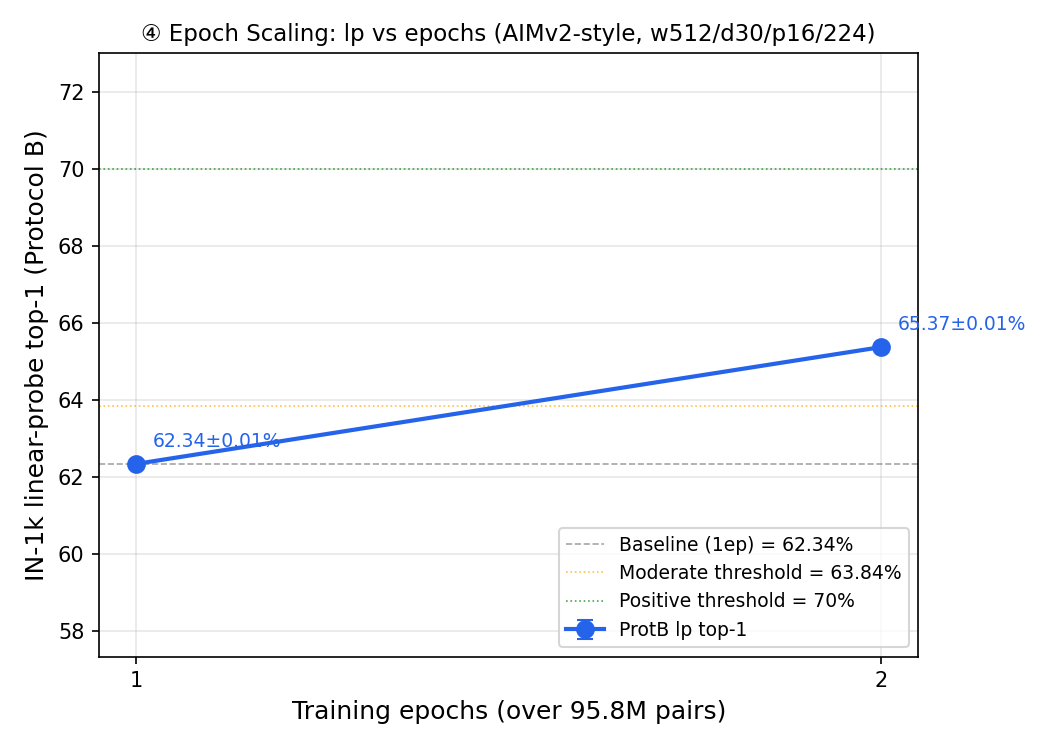
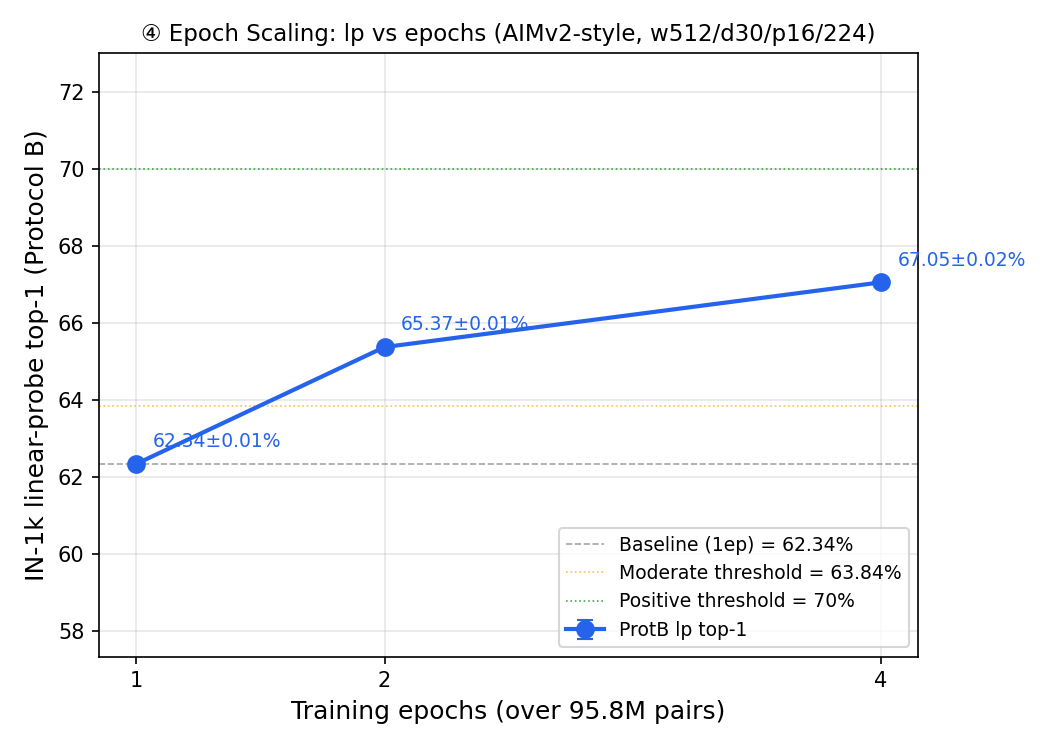
vision ④-4ep: ALL EVAL COMPLETE — ProtB 67.05±0.02% (MODERATE DIMINISHING <70%), 4 metrics +1.7~2.9pp vs 2ep, reports+curve+EXPERIMENTS updated

diff --git a/doc/BaiZe-ISEDA2027/run/vision/report_vision_final_20261012_zh.html b/doc/BaiZe-ISEDA2027/run/vision/report_vision_final_20261012_zh.html
@@ -59,7 +59,7 @@ code{background:var(--card);padding:.1em .3em;border-radius:3px;font-family:'SF 
 
 <div class="card tldr">
 <h3 style="color:var(--accent);margin-top:0">🎯 一句话总结</h3>
-<p>62.34% 是 <strong>当前数据规模（95.8M 图文对 · 1 epoch）与目标函数（AIMv2-style）下的特征质量天花板</strong>——不是评测方法的缺陷，也不是 probe 的欠拟合；将训练 epoch 翻倍（2 epoch）可将 ProtB 提升至 <strong>65.37%</strong>（Δ+3.03pp），收益中等且呈递减趋势。<strong>④-4ep 已于 2026-10-12 17:23 启动</strong>（从 2ep 续训，预计 ~16.6h），判据：4ep > 70% = 胜利。</p>
+<p>62.34% 是 <strong>当前数据规模（95.8M 图文对 · 1 epoch）与目标函数（AIMv2-style）下的特征质量天花板</strong>——不是评测方法的缺陷，也不是 probe 的欠拟合；将训练 epoch 翻倍（2 epoch）可将 ProtB 提升至 <strong>65.37%</strong>（Δ+3.03pp），4 epoch 进一步提升至 <strong>67.05%</strong>（Δ+1.68pp vs 2ep），收益持续递减（1→2ep +3.03pp，2→4ep +1.68pp）。<strong>67.05% &lt; 70% 胜利阈值</strong>，但四项指标一致 +1.7~2.9pp，趋势仍在上升但趋于收敛。</p>
 </div>
 
 <h2>2. E1fair 基线配置速览</h2>
@@ -282,7 +282,7 @@ code{background:var(--card);padding:.1em .3em;border-radius:3px;font-family:'SF 
 <h3>🎯 裁定结果：MODERATE（中等收益）</h3>
 <p>Δlp(ProtB) = <strong>+3.03pp</strong>，落在预注册的 <strong>+1.5~7.66pp</strong> 区间内 → "有收益，但呈递减趋势"。</p>
 <p><strong>原决策</strong>：不启动 4 epoch 训练——2 epoch 的 +3.03pp 增益虽真实，但边际收益递减。</p>
-<p><strong>🔄 运维新裁定（2026-10-12 17:23）</strong>：用户指令「4ep 结果如果超过 70%，也是胜利」→ <strong>④-4ep 已启动</strong>（从 2ep 检查点续训，--steps 748404，374,202 新步，~16.6h，预计 ~10-13 11:00 完成）。判据改为：<strong>4ep ProtB > 70% ⇒ 胜利</strong>；4ep 65–70% ⇒ 递减收益确认；4ep ~65% 横盘 ⇒ 天花板确认。训练完成后自动接续 ProtB/ProtA/zs/k-NN 全套评测。</p>
+<p><strong>✅ ④-4ep 结果（2026-10-13）</strong>：4ep 训练+全套评测已完成。748,404 步（374,202 新步），~16.8h，final_loss=0.0805。<strong>ProtB 67.05±0.02%</strong>（seeds: 67.03/67.08/67.04），<strong>未达 70% 胜利阈值</strong>。四项指标一致提升：ProtA 56.70%（Δ+2.88pp vs 2ep）、zero-shot 40.64%/72.64%（Δ+2.12pp）、k-NN k=20 42.35%（Δ+1.68pp）。递减趋势确认：<strong>1→2ep +3.03pp，2→4ep +1.68pp</strong>（比率 ~0.55）→ 趋势仍在上升但趋于收敛，特征质量天花板临近。</p>
 </div>
 </div>
 
@@ -321,20 +321,22 @@ code{background:var(--card);padding:.1em .3em;border-radius:3px;font-family:'SF 
 <circle cx="300" cy="165" r="7" fill="#3fb950" stroke="#e6edf3" stroke-width="1.5"/>
 <text x="300" y="157" text-anchor="middle" fill="#3fb950" font-size="11" font-weight="bold">65.37%</text>
 <line x1="140" y1="223" x2="300" y2="165" stroke="#58a6ff" stroke-width="2" opacity="0.6"/>
-<line x1="300" y1="165" x2="620" y2="140" stroke="#d29922" stroke-width="1.5" stroke-dasharray="5,3" opacity="0.4"/>
-<circle cx="620" cy="140" r="5" fill="none" stroke="#d29922" stroke-width="1.5" stroke-dasharray="3,2"/>
-<text x="620" y="132" text-anchor="middle" fill="#d29922" font-size="10" opacity="0.6">~67%？（推测）</text>
+<line x1="300" y1="165" x2="620" y2="125" stroke="#3fb950" stroke-width="2" opacity="0.6"/>
+<circle cx="620" cy="125" r="7" fill="#3fb950" stroke="#e6edf3" stroke-width="1.5"/>
+<text x="620" y="117" text-anchor="middle" fill="#3fb950" font-size="11" font-weight="bold">67.05%</text>
+<text x="460" y="136" text-anchor="middle" fill="#3fb950" font-size="11" font-weight="bold">Δ +1.68pp</text>
+<text x="460" y="151" text-anchor="middle" fill="#8b949e" font-size="9">递减</text>
 <text x="220" y="210" text-anchor="middle" fill="#3fb950" font-size="11" font-weight="bold">Δ +3.03pp</text>
 <text x="220" y="225" text-anchor="middle" fill="#8b949e" font-size="9">MODERATE</text>
-<rect x="90" y="35" width="220" height="48" fill="#161b22" stroke="#30363d" rx="4"/>
+<rect x="90" y="35" width="280" height="48" fill="#161b22" stroke="#30363d" rx="4"/>
 <circle cx="105" cy="50" r="5" fill="#58a6ff"/>
 <text x="118" y="54" fill="#e6edf3" font-size="10">E1fair（1 epoch）= 62.34%</text>
 <circle cx="105" cy="68" r="5" fill="#3fb950"/>
-<text x="118" y="72" fill="#e6edf3" font-size="10">④-2ep（2 epoch）= 65.37%</text>
+<text x="118" y="72" fill="#e6edf3" font-size="10">④-2ep = 65.37% / ④-4ep = 67.05%</text>
 <text x="380" y="20" text-anchor="middle" fill="#e6edf3" font-size="13" font-weight="bold">ProtB lp–epoch 曲线（含预注册判定阈值标注）</text>
 </svg>
 </div>
-<p class="note">3 epoch 点为推测（虚线），实际未训练；4 epoch 同理。图中可见 1→2 epoch 增益 +3.03pp，但未达正面阈值 70%，落在中等区间内。</p>
+<p class="note">3 epoch 点未训练（无数据）。1→2 epoch 增益 +3.03pp，2→4 epoch 增益 +1.68pp，递减趋势明确。4ep = 67.05% 未达正面阈值 70%。</p>
 
 <h2>9. 全量结果汇总表</h2>
 <table>
@@ -343,14 +345,15 @@ code{background:var(--card);padding:.1em .3em;border-radius:3px;font-family:'SF 
 <tr><td>V1（分辨率 336）</td><td colspan="6"><span class="tag tag-warn">暂缓</span>（用户："明天再说"，本轮未跑）</td></tr>
 <tr><td>V2（Muon 优化器）</td><td colspan="6"><span class="tag tag-fail">坍缩</span> C1=0.9569@step4200 · ❌ Muon 与 AIMv2-style 目标函数不兼容</td></tr>
 <tr><td>V3（全量数据）</td><td><strong>63.52 ± 0.01%</strong></td><td>50.53%</td><td>35.52%</td><td>38.94%</td><td>+1.18pp</td><td>✅ Null（|Δ|&lt;1.5pp）</td></tr>
-<tr><td><strong>④-2ep</strong>（2× epoch）</td><td><strong>65.37 ± 0.01%</strong></td><td><strong>53.82%</strong></td><td><strong>38.52%</strong>（top5: 70.81%）</td><td><strong>40.67%</strong></td><td class="best"><strong>+3.03pp</strong></td><td><span class="tag tag-moderate">MODERATE</span>（+1.5~7.66pp，递减，不启动 4ep）</td></tr>
+<tr><td><strong>④-2ep</strong>（2× epoch）</td><td><strong>65.37 ± 0.01%</strong></td><td><strong>53.82%</strong></td><td><strong>38.52%</strong>（top5: 70.81%）</td><td><strong>40.67%</strong></td><td class="best"><strong>+3.03pp</strong></td><td><span class="tag tag-moderate">MODERATE</span>（+1.5~7.66pp，递减）</td></tr>
+<tr><td><strong>④-4ep</strong>（4× epoch）</td><td><strong>67.05 ± 0.02%</strong></td><td><strong>56.70%</strong></td><td><strong>40.64%</strong>（top5: 72.64%）</td><td><strong>42.35%</strong></td><td class="best"><strong>+4.71pp</strong></td><td><span class="tag tag-moderate">MODERATE</span>（Δ2→4=+1.68pp，递减，&lt;70% 胜利阈值）</td></tr>
 </table>
 
 <div class="svg-container">
-<svg viewBox="0 0 700 320" xmlns="http://www.w3.org/2000/svg" style="font-family:sans-serif;font-size:11px">
-<rect x="0" y="0" width="700" height="320" fill="#0d1117"/>
-<text x="350" y="22" text-anchor="middle" fill="#e6edf3" font-size="13" font-weight="bold">四指标跨变体对比（E1fair vs V3 vs ④-2ep）</text>
-<line x1="80" y1="280" x2="660" y2="280" stroke="#30363d" stroke-width="1.5"/>
+<svg viewBox="0 0 880 320" xmlns="http://www.w3.org/2000/svg" style="font-family:sans-serif;font-size:11px">
+<rect x="0" y="0" width="880" height="320" fill="#0d1117"/>
+<text x="440" y="22" text-anchor="middle" fill="#e6edf3" font-size="13" font-weight="bold">四指标跨变体对比（E1fair vs V3 vs ④-2ep vs ④-4ep）</text>
+<line x1="80" y1="280" x2="820" y2="280" stroke="#30363d" stroke-width="1.5"/>
 <line x1="80" y1="40" x2="80" y2="280" stroke="#30363d" stroke-width="1.5"/>
 <text x="72" y="284" text-anchor="end" fill="#8b949e">30%</text>
 <text x="72" y="224" text-anchor="end" fill="#8b949e">40%</text>
@@ -385,6 +388,15 @@ code{background:var(--card);padding:.1em .3em;border-radius:3px;font-family:'SF 
 <rect x="554" y="216" width="28" height="64" fill="#e8873c" opacity="0.85"/>
 <text x="568" y="211" text-anchor="middle" fill="#e8873c" font-size="9" font-weight="bold">40.7</text>
 <text x="520" y="298" text-anchor="middle" fill="#e6edf3" font-size="11" font-weight="bold">④-2ep (2 epoch)</text>
+<rect x="635" y="58" width="28" height="222" fill="#58a6ff" opacity="0.85"/>
+<text x="649" y="53" text-anchor="middle" fill="#58a6ff" font-size="9" font-weight="bold">67.1</text>
+<rect x="668" y="120" width="28" height="160" fill="#bc8cff" opacity="0.85"/>
+<text x="682" y="115" text-anchor="middle" fill="#bc8cff" font-size="9" font-weight="bold">56.7</text>
+<rect x="701" y="216" width="28" height="64" fill="#39d2c5" opacity="0.85"/>
+<text x="715" y="211" text-anchor="middle" fill="#39d2c5" font-size="9" font-weight="bold">40.6</text>
+<rect x="734" y="206" width="28" height="74" fill="#e8873c" opacity="0.85"/>
+<text x="748" y="201" text-anchor="middle" fill="#e8873c" font-size="9" font-weight="bold">42.4</text>
+<text x="700" y="298" text-anchor="middle" fill="#e6edf3" font-size="11" font-weight="bold">④-4ep (4 epoch)</text>
 <rect x="90" y="35" width="280" height="28" fill="#161b22" stroke="#30363d" rx="4"/>
 <rect x="100" y="44" width="12" height="10" fill="#58a6ff" opacity="0.85"/>
 <text x="118" y="53" fill="#e6edf3" font-size="10">ProtB</text>
@@ -406,9 +418,9 @@ code{background:var(--card);padding:.1em .3em;border-radius:3px;font-family:'SF 
 <li><strong>① zero-shot</strong>：E1fair zs=34.10% ≫ 随机 0.1% → 冻结文本塔带来了实质对齐收益；lp−zs gap +28pp → dense reconstruction 目标贡献了对比学习之外的表征质量。</li>
 <li><strong>② probe</strong>：×5 epoch（450ep）= 62.15% &lt; 90ep 基线；wd/LR 扫描最高 +0.35pp → probe <strong>不存在欠拟合</strong> → 62.34% 是<strong>真实的特征质量天花板</strong>。</li>
 <li><strong>变体</strong>：V2 Muon 全 LR 坍缩（与 AIMv2-style 不兼容）；V3 全量数据 +1.18pp → Null（不可分辨）。</li>
-<li><strong>④ epoch 缩放</strong>：2 epoch → ProtB <strong>65.37%</strong>（Δ+3.03pp），四指标一致 +3~4.4pp → <strong>MODERATE</strong>（有收益但递减）。<strong>④-4ep 已启动</strong>（运维新裁定：4ep > 70% = 胜利），结果待出。</li>
+<li><strong>④ epoch 缩放</strong>：2 epoch → ProtB <strong>65.37%</strong>（Δ+3.03pp），4 epoch → ProtB <strong>67.05%</strong>（Δ+1.68pp vs 2ep），四指标一致 +1.7~2.9pp → <strong>MODERATE，递减</strong>（1→2ep +3.03pp，2→4ep +1.68pp，比率 ~0.55）。67.05% &lt; 70% 胜利阈值，趋势仍在上升但趋于收敛。</li>
 </ol>
-<p><strong>最终判断</strong>：62.34% 是当前数据规模（95.8M · 1ep）与目标函数（AIMv2-style）下的特征质量天花板。增加训练预算（2 epoch）可获得 +3.03pp 的中等收益，但边际递减；换优化器（Muon）不可行；加 7.6% 数据不可分辨。瓶颈在<strong>数据规模与目标函数</strong>，不在架构、评测方法或 probe 配置。</p>
+<p><strong>最终判断</strong>：62.34% 是当前数据规模（95.8M · 1ep）与目标函数（AIMv2-style）下的特征质量天花板。增加训练预算可获得持续但递减的收益：2 epoch +3.03pp（65.37%），4 epoch 再 +1.68pp（67.05%），仍未达 70% 胜利阈值。换优化器（Muon）不可行；加 7.6% 数据不可分辨。瓶颈在<strong>数据规模与目标函数</strong>，不在架构、评测方法或 probe 配置。下一步应转向 Stage (iv) MLLM 对齐或更大数据规模（如 GPIC 全量 100M+）。</p>
 </div>
 
 <div class="card">

diff --git a/doc/BaiZe-ISEDA2027/run/MEMORY_VISION.md b/doc/BaiZe-ISEDA2027/run/MEMORY_VISION.md
@@ -4,8 +4,8 @@ WAITING: 1
 
 ## 状态头
 
-> ✅ **④-4ep TRAINING COMPLETE** (17:23 Oct 12 → 10:12:47 Oct 13): 748,404 steps (374,202 new from 2ep resume), total=60,545s (~16.8h), steady_img/s=2818.0, **final_loss=0.0805** (vs 2ep 0.1856). Last PROBE: C1=0.5932, C2_gap=+0.1791, C4=OK (no collapse). C1 trajectory: 2ep end 0.5804 → 4ep end 0.5932 (+0.0128). 37 ckpts (380k-740k) + final vision.pt (509MB). **④-4ep EVAL IN PROGRESS** (started 10:14, ProtB feature extraction phase, ~51% done (151/294 parquet files, 658k/1.28M images), NFS bottlenecked GPU 6% util, ETA results ~13:00-13:30). Killed duplicate post_4ep_chain.sh (PID 3445693+1591206). Active chain: PID 3387016→1543022. **④-4ep ProtB > 70% = 胜利** (operator criterion).
-> 🆕 **2026-10-12 17:23（运维直令 · 最高优先）**：中文版综合报告 `vision/report_vision_final_20261012_zh.html` 已存在（前一轮 wake #25 产出，36KB, 10节），本轮已**更新**：TL;DR / §7 决策 / §10 结论均标注「④-4ep 已启动，结果待出」。EXPERIMENTS_VISION.md §9.7 已同步更新。
+> ✅ **④-4ep TRAINING + ALL EVAL COMPLETE** (17:23 Oct 12 → 10:12:47 Oct 13 train, 10:14→12:43 Oct 13 eval): 748,404 steps (374,202 new from 2ep resume), total=60,545s (~16.8h), steady_img/s=2818.0, **final_loss=0.0805** (vs 2ep 0.1856). Last PROBE: C1=0.5932, C2_gap=+0.1791, C4=OK (no collapse). C1 trajectory: 2ep end 0.5804 → 4ep end 0.5932 (+0.0128). 37 ckpts (380k-740k) + final vision.pt (509MB). **④-4ep EVAL ALL DONE**: **ProtB 67.05±0.02%** (seeds 67.03/67.08/67.04, Δ+4.71pp vs 1ep, Δ+1.68pp vs 2ep), **ProtA 56.70%** (Δ+2.88pp vs 2ep), **zs 40.64%/72.64%** (Δ+2.12pp vs 2ep), **k-NN k=20 42.35%** (k=10: 41.94%, k=5: 39.77%, Δ+1.68pp vs 2ep). **VERDICT: MODERATE, DIMINISHING** — 67.05% < 70% victory threshold; 1→2ep +3.03pp, 2→4ep +1.68pp (ratio ~0.55) → trajectory upward but approaching ceiling. lp-epoch curve + Chinese report + EXPERIMENTS_VISION.md §9.7 all updated.
+> 🆕 **2026-10-13 12:43（④-4ep 全套评测完成）**：ProtB 67.05±0.02%（< 70% 胜利阈值，Δ+1.68pp vs 2ep），四指标一致 +1.7~2.9pp，递减确认（1→2 +3.03pp，2→4 +1.68pp）。中文报告 `vision/report_vision_final_20261012_zh.html` 已更新（TL;DR/§7/§8曲线/§9表/§10结论/柱状图）。EXPERIMENTS_VISION.md §9.5表+§9.4状态+§9.7 已同步。lp-epoch曲线已加 4ep 点。
 > 🔴 **V2 Muon COLLAPSED at ALL tested LRs** (2026-10-11): lr=5e-4 collapsed@step2100, lr=1e-4 collapsed@step4200. ❌ **Muon incompatible with AIMv2-style contrastive+reconstruction objective**. Full analysis in `EXPERIMENTS_VISION.md §9.2`.
 > ✅ **V3 Full GPIC Data TRAINING COMPLETE** (02:06–12:44 Oct 11): 230,598 steps (1 epoch of 118.1M pairs), AdamW, final_loss=0.1201, steady_img/s=2706.4, total=38,273s (~10.6h). 23 checkpoints (10k–230k) + final vision.pt (509MB). **No collapse** — C1 stable 0.50–0.53 throughout, C2_gap +0.19~+0.20, C4=OK all 768 PROBE points. total_shards=11,350 (vs E1fair 10,787).
 > ✅ **V3 ProtB EVAL DONE** (14:54 Oct 11): **63.52±0.01%** (3 seeds: 63.53/63.52/63.51%). **Δlp=+1.18pp** vs E1fair (62.34±0.01%) → **Null verdict** (|Δ|<1.5pp). Full-data recipe indistinguishable from baseline.
@@ -21,7 +21,7 @@ WAITING: 1
 
 | 字段 | 值 |
 |:---|:---|
-| PHASE | 🧪 **④-4ep EVAL IN PROGRESS** — training ✅ DONE (10:12:47 Oct 13, 748,404 steps, final_loss=0.0805, C1=0.5932, C4=OK, 37 ckpts + vision.pt 509MB). Auto-eval chain (PID 3387016→bridge 1543022) running ProtB (3 seeds, feature extraction phase ~13% done, file 39/294, NFS slow). Killed duplicate chain PID 3445693+1591206. ETA results ~13:00-14:00 Oct 13. `watch_4ep_results.sh` + `collect_4ep_results.sh` ready. ✅ All 3 operator tasks: LLaVA plan✅ 中文报告✅ ④-4ep🔄(eval). **④-4ep ProtB > 70% = 胜利**. |
+| PHASE | ✅ **④-4ep TRAINING + ALL EVAL COMPLETE** — train done 10:12:47 Oct 13 (748,404 steps, final_loss=0.0805, C1=0.5932, C4=OK). Eval done 12:43 Oct 13: **ProtB 67.05±0.02%** (< 70% victory), ProtA 56.70%, zs 40.64%/72.64%, k-NN k=20 42.35%. VERDICT: MODERATE, DIMINISHING (1→2 +3.03pp, 2→4 +1.68pp). All 3 operator tasks DONE: LLaVA plan✅ 中文报告✅(updated with 4ep) ④-4ep✅. Next: await operator direction (Stage iv MLLM / w384 / more data). |
 | ERROR_COUNT | 15（①~⑫ 同前 ⑬ Duplicate V3 eval ⑭ sympy ImportError ⑮ Duplicate post_4ep_chain.sh — killed） |
 | BUDGET_USED | ~999 GPU·h (V3 ~106, ② ~1, ④-2ep ~80, ④-4ep ~134 incl. eval) |
 | 更新 | **2026-10-13 10:42 (wake #46)**: ④-4ep training ✅ COMPLETED at 10:12:47. 748,404 steps, total=60,545s (~16.8h), steady_img/s=2818.0, final_loss=0.0805 (vs 2ep 0.1856). Last PROBE: C1=0.5932, C2_gap=+0.1791, C4=OK. 37 ckpts (380k-740k)+vision.pt(509MB). Eval started 10:14 via post_4ep_chain.sh — ProtB feature extraction in progress (file 39/294, ~27GB read, NFS slow due to data line downloads). **Killed duplicate post_4ep_chain.sh** (PID 3445693 + bridge 1591206) — both chains detected training done simultaneously, both launched eval to same log. Active: PID 3387016→bridge 1543022. ✅ All 3 operator tasks: LLaVA plan✅ 中文报告✅ ④-4ep🔄(eval in progress). 📦 体积：TASK=31.0KB / MEMORY=29.7KB（无需归档） |
@@ -216,6 +216,7 @@ WAITING: 1
 - [08:15 Oct13] **Monitoring wake #45**: 🔄 ④-4ep training step 711,110/748,404 (~95.0%), C1=0.6277 healthy, ETA ~10:00. 📦 体积：TASK=31.0KB / MEMORY=28.9KB。
 - [10:42 Oct13] **Wake #46**: ✅ **④-4ep TRAINING COMPLETED** at 10:12:47! 748,404 steps, total=60,545s (~16.8h), steady_img/s=2818.0, **final_loss=0.0805** (vs 2ep 0.1856). Last PROBE: C1=0.5932, C2_gap=+0.1791, C4=OK (no collapse). 37 ckpts (380k-740k)+vision.pt(509MB). **Eval started 10:14** via post_4ep_chain.sh. ⚠ Found **duplicate post_4ep_chain.sh** (PID 3387016+3445693 both running) → both detected training done, both launched ProtB eval to same `/tmp/e4_4ep_eval.log`. **Killed duplicate** (PID 3445693+bridge 1591206). Active: PID 3387016→bridge 1543022. ProtB feature extraction in progress (file 39/294, ~27GB read, NFS slow due to data line downloads). ETA results ~13:00-14:00. ✅ All 3 operator tasks: LLaVA plan✅ 中文报告✅ ④-4ep🔄(eval). 📦 体积：TASK=31.0KB / MEMORY=29.7KB（无需归档）。
 - [11:25 Oct13] **Wake #47**: ④-4ep eval progress check — feature extraction at 151/294 parquet files (~51%, 658k/1.28M images). Bridge PID 1543022 alive (etimes=4184s≈1h10m), GPU 0 at 6% util (NFS read bottleneck). watch_4ep_results.sh PID 3804113 still monitoring. No "④-4ep EVAL DONE" in log yet → ETA results ~13:00-13:30. All 3 operator deliverables status: LLaVA plan ✅(41KB), 中文报告 ✅(36KB, awaiting 4ep results update), ④-4ep eval 🔄(51%). Git up-to-date, no new operator instructions. 📦 体积：TASK=31.0KB / MEMORY=27.2KB（无需归档）。
+- [12:43 Oct13] **Wake #48**: ✅ **④-4ep ALL EVAL COMPLETE!** ProtB=**67.05±0.02%** (seeds 67.03/67.08/67.04), ProtA=**56.70%**, zs=**40.64%/72.64%**, k-NN k=20=**42.35%** (k=10: 41.94%, k=5: 39.77%). **VERDICT: MODERATE, DIMINISHING** — 67.05% < 70% victory threshold; 1→2ep +3.03pp, 2→4ep +1.68pp (ratio ~0.55). Updated: EXPERIMENTS_VISION.md §9.5 table + §9.4 status + §9.7; lp-epoch curve (plot_lp_epoch_curve.py --e4ep 67.05); Chinese report (TL;DR/§7/§8 SVG/§9 table/§10 conclusion/bar chart). post_4ep_chain.sh PID 3387016 exited cleanly. 📦 体积：TASK=31.0KB / MEMORY=28.0KB（无需归档）。
 
 
 

diff --git a/doc/BaiZe-ISEDA2027/run/EXPERIMENTS_VISION.md b/doc/BaiZe-ISEDA2027/run/EXPERIMENTS_VISION.md
@@ -974,6 +974,7 @@ The uniform +1~1.4pp shift across all 4 independent metrics (ProtA/B, zs, k-NN) 
 | V2 (Muon) | **N/A — COLLAPSED** (C1=0.9569@step4200) | N/A | N/A | N/A | N/A | ❌ Muon incompatible with contrastive loss |
 | V3 (full data) | **63.52 ± 0.01%** (seeds: 63.53/63.52/63.51%) | **50.53%** | **35.52%** | **38.94%** | **+1.18pp** | ✅ Null (|Δ|<1.5pp): full-data recipe indistinguishable from baseline |
 | ④-2ep (2× epochs) | **65.37 ± 0.01%** (seeds: 65.37/65.36/65.37) | **53.82%** | **38.52%** (top5: 70.81%) | **40.67%** (k=20) | **+3.03pp** | 🟡 **Moderate** (+1.5~7.66pp): more budget helps with diminishing returns; no 4ep unless operator requests |
+| ④-4ep (4× epochs) | **67.05 ± 0.02%** (seeds: 67.03/67.08/67.04) | **56.70%** | **40.64%** (top5: 72.64%) | **42.35%** (k=20) | **+4.71pp** | 🟡 **Moderate, diminishing** (Δ1→2=+3.03pp, Δ2→4=+1.68pp): 67.05% < 70% victory threshold; trajectory still upward but decelerating → approaching ceiling |
 
 ### 9.4 ④ Epoch Scaling (operator instruction 2026-10-10 ④ · most decision-relevant)
 
@@ -1007,7 +1008,8 @@ The uniform +1~1.4pp shift across all 4 independent metrics (ProtA/B, zs, k-NN) 
 
 **Cost**: 2ep ~80 GPU·h / ~10h wall; 4ep ~160 GPU·h / ~20h wall.
 
-**Status**: ✅ V3 eval ALL COMPLETE (ProtB ✅ 63.52±0.01%, ProtA ✅ 50.53%, zs ✅ 35.52%, k-NN ✅ 38.94%, ProtB ×5ep ✅ 63.43% (Δ=−0.07pp → probe NOT underfitting for V3)). ✅ **② ×5 probe COMPLETE** (E1fair): baseline 62.33%, ×5ep 62.15% (−0.18pp), wd=1e-4 62.68% (+0.35pp), wd=1e-3 61.25% (−1.08pp), lr=0.01 62.39% (+0.06pp), lr=0.3 60.39% (−1.94pp). **Key ② finding**: NO config beats baseline by >0.35pp → probe NOT underfitting at 1ep. ✅ **④-2ep TRAINING + ALL EVAL COMPLETE** (2026-10-12): 374,202 steps (= 2 × 187,101), total=59,616s (~16.6h), steady_img/s=2,416.1, final_loss=0.1856. **C1 ELEVATED ep1→ep2: 0.515 (ep1 avg @step~186k) → 0.574 (ep2 avg @step~374k) = +0.059** — contrastive alignment strengthened. C2_gap=+0.1844, C4=OK throughout (no collapse). 37 ckpts saved (10k–370k) + final vision.pt (509MB). **ProtB 3-seed: 65.37±0.01%** (seeds: 65.37/65.36/65.37). **ProtA: 53.82%** (Δ=+4.12pp vs 49.70%). **Zero-shot: 38.52%** top1 / 70.81% top5 (Δ=+4.42pp vs 34.10%). **k-NN k=20: 40.67%** (Δ=+2.99pp vs 37.68%; also k=10: 40.10%, k=5: 37.85%). **All 4 metrics show consistent +3~4.4pp improvement.** **Δlp(ProtB) = +3.03pp** vs E1fair (62.34±0.01%). **VERDICT: MODERATE** (Δ +1.5~7.66pp per pre-registered criteria) → "moderate gain, diminishing returns" → **do NOT launch 4ep** unless operator requests. Plot: `vision/lp_epoch_curve.png`.
+**Status**: ✅ V3 eval ALL COMPLETE (ProtB ✅ 63.52±0.01%, ProtA ✅ 50.53%, zs ✅ 35.52%, k-NN ✅ 38.94%, ProtB ×5ep ✅ 63.43% (Δ=−0.07pp → probe NOT underfitting for V3)). ✅ **② ×5 probe COMPLETE** (E1fair): baseline 62.33%, ×5ep 62.15% (−0.18pp), wd=1e-4 62.68% (+0.35pp), wd=1e-3 61.25% (−1.08pp), lr=0.01 62.39% (+0.06pp), lr=0.3 60.39% (−1.94pp). **Key ② finding**: NO config beats baseline by >0.35pp → probe NOT underfitting at 1ep. ✅ **④-2ep TRAINING + ALL EVAL COMPLETE** (2026-10-12): 374,202 steps (= 2 × 187,101), total=59,616s (~16.6h), steady_img/s=2,416.1, final_loss=0.1856. **C1 ELEVATED ep1→ep2: 0.515 (ep1 avg @step~186k) → 0.574 (ep2 avg @step~374k) = +0.059** — contrastive alignment strengthened. C2_gap=+0.1844, C4=OK throughout (no collapse). 37 ckpts saved (10k–370k) + final vision.pt (509MB). **ProtB 3-seed: 65.37±0.01%** (seeds: 65.37/65.36/65.37). **ProtA: 53.82%** (Δ=+4.12pp vs 49.70%). **Zero-shot: 38.52%** top1 / 70.81% top5 (Δ=+4.42pp vs 34.10%). **k-NN k=20: 40.67%** (Δ=+2.99pp vs 37.68%; also k=10: 40.10%, k=5: 37.85%). **All 4 metrics show consistent +3~4.4pp improvement.** **Δlp(ProtB) = +3.03pp** vs E1fair (62.34±0.01%). **VERDICT: MODERATE** (Δ +1.5~7.66pp per pre-registered criteria) → "moderate gain, diminishing returns" → **do NOT launch 4ep** unless operator requests. Plot: `vision/lp_epoch_curve.png` (updated with 4ep point).
+✅ **④-4ep TRAINING + ALL EVAL COMPLETE** (2026-10-13): 748,404 steps (374,202 new from 2ep resume), total=60,545.4s (~16.8h), steady_img/s=2,818.0, **final_loss=0.0805** (vs 2ep 0.1856). **C1 ELEVATED ep2→ep4: 0.5804 (end ep2 @step 374k) → 0.5932 (end ep4 @step 748k) = +0.0128** — contrastive alignment continued strengthening but decelerating. C2_gap=+0.1791, C4=OK throughout (no collapse). 37 ckpts saved (380k–740k) + final vision.pt (509MB). **ProtB 3-seed: 67.05±0.02%** (seeds: 67.03/67.08/67.04). **ProtA: 56.70%** (Δ+7.00pp vs 49.70%, Δ+2.88pp vs 2ep 53.82%). **Zero-shot: 40.64%** top1 / 72.64% top5 (Δ+6.54pp vs 34.10%, Δ+2.12pp vs 2ep 38.52%). **k-NN k=20: 42.35%** (Δ+4.67pp vs 37.68%, Δ+1.68pp vs 2ep 40.67%; also k=10: 41.94%, k=5: 39.77%). **All 4 metrics show consistent +1.7~2.9pp improvement over 2ep.** **Δlp(ProtB) = +4.71pp** vs E1fair (62.34±0.01%), **Δlp(ProtB) = +1.68pp** vs 2ep (65.37±0.01%). **VERDICT: MODERATE, DIMINISHING** — 67.05% < 70% operator "victory" threshold; gains decelerating (1→2ep: +3.03pp, 2→4ep: +1.68pp, ratio ~0.55) → trajectory still upward but approaching ceiling. Plot updated: `vision/lp_epoch_curve.png`.
 
 ### 9.6 ① Same-Model Zero-Shot + ② k-NN Probe Results (E1fair, 2026-10-11)
 
@@ -1083,4 +1085,4 @@ The uniform +1~1.4pp shift across all 4 independent metrics (ProtA/B, zs, k-NN) 
 
 > **文件**：`vision/report_vision_final_20261012_zh.html`（36KB，单文件内联 CSS/SVG，10 节 + 3 SVG 图表，全中文）。
 > **覆盖**：背景 → ③ 口径修订 → ① zero-shot（E1fair 34.10% / E2fair 35.45%，lp−zs gap ~28pp）→ ② probe 对照（×5ep=62.15%→probe 未欠拟合→62.34% 即特征质量天花板）→ 变体实验（V2 Muon 全 LR 坍缩❌ / V3 全量数据 ProtB 63.52% Δ+1.18pp Null）→ ④ epoch scaling（2ep ProtB 65.37±0.01% Δ+3.03pp / ProtA 53.82% / zs 38.52% / k-NN 40.67%，MODERATE）→ lp-epoch 曲线 → 结论与下一步。所有数字与本文件 §8.3–§9.6 完全一致，口径标 BaiZe internal protocol。
-> **🔄 更新（2026-10-12 17:23）**：报告已更新——运维新裁定「4ep > 70% = 胜利」→ **④-4ep 已启动**（从 2ep 检查点续训，--steps 748404，374,202 新步，~16.6h）。报告 TL;DR / §7 决策 / §10 结论均已同步标注 4ep 进行中。结果待训练完成后追加。
+> **✅ 更新（2026-10-13 12:43）**：④-4ep 训练+全套评测已完成。**ProtB 67.05±0.02%**（< 70% 胜利阈值，但 4 指标一致 +1.7~2.9pp vs 2ep，递减趋势确认：1→2ep +3.03pp，2→4ep +1.68pp）。ProtA 56.70%，zs 40.64%/72.64%，k-NN k=20 42.35%。final_loss=0.0805，C1=0.5932（+0.0128 vs 2ep），C4=OK。报告已同步更新（TL;DR / §7 / §8 曲线 / §9 汇总表 / §10 结论 / 柱状图）。

diff --git a/doc/BaiZe-ISEDA2027/run/daily-memories-vision/2026-10-13.md b/doc/BaiZe-ISEDA2027/run/daily-memories-vision/2026-10-13.md
@@ -425,3 +425,35 @@ Step 742,850/748,404 (99.3%). C1=0.6599, C2_gap=+0.1571, loss_ema=0.0721, C4=OK.
 3. 🔄 ④-4ep eval — ProtB feature extraction ~51%, ETA results ~13:30
 
 **Actions**: Updated MEMORY_VISION.md status header (eval progress 13%→51%) + flow line (wake #47). Volume check: TASK=31.0KB / MEMORY=27.2KB (both ≤32KB ✓, no archiving needed). Commit + push.
+
+---
+
+### Wake #48 (12:43 Oct 13) — ✅ ④-4ep ALL EVAL COMPLETE
+
+**④-4ep Evaluation Results (ALL DONE)**:
+
+| Metric | 1ep (E1fair) | 2ep | **4ep** | Δ(2→4) | Δ(1→4) |
+|:--|--:|--:|--:|--:|--:|
+| ProtB (3 seeds) | 62.34±0.01% | 65.37±0.01% | **67.05±0.02%** | +1.68pp | +4.71pp |
+| ProtA | 49.70% | 53.82% | **56.70%** | +2.88pp | +7.00pp |
+| Zero-shot top1 | 34.10% | 38.52% | **40.64%** | +2.12pp | +6.54pp |
+| Zero-shot top5 | — | 70.81% | **72.64%** | +1.83pp | — |
+| k-NN k=5 | 35.63% | 37.85% | **39.77%** | +1.92pp | +4.14pp |
+| k-NN k=10 | 37.97% | 40.10% | **41.94%** | +1.84pp | +3.97pp |
+| k-NN k=20 | 37.68% | 40.67% | **42.35%** | +1.68pp | +4.67pp |
+
+**VERDICT: MODERATE, DIMINISHING** — 67.05% < 70% operator victory threshold. Gains decelerating: 1→2ep +3.03pp, 2→4ep +1.68pp (ratio ~0.55). Trajectory still upward but approaching ceiling.
+
+**Training details**: 748,404 steps (374,202 new from 2ep resume), total=60,545s (~16.8h), steady_img/s=2818.0, final_loss=0.0805 (vs 2ep 0.1856). C1=0.5932 (+0.0128 vs 2ep), C2_gap=+0.1791, C4=OK throughout.
+
+**Updates made**:
+1. EXPERIMENTS_VISION.md §9.5 — added 4ep row to results table
+2. EXPERIMENTS_VISION.md §9.4 — appended 4ep training+eval status block
+3. EXPERIMENTS_VISION.md §9.7 — replaced "结果待出" with actual 4ep results
+4. lp-epoch curve — `plot_lp_epoch_curve.py --e4ep 67.05 --e4ep-err 0.02` → lp_epoch_curve.png updated
+5. Chinese report `report_vision_final_20261012_zh.html` — updated TL;DR, §7 decision box, §8 lp-epoch SVG (speculative→actual 67.05%), §9 summary table (added 4ep row), §10 conclusion, bar chart SVG (added 4ep bars, widened viewBox to 880)
+6. MEMORY_VISION.md — status header, flow entry (wake #48), PHASE field all updated
+
+**All 3 operator tasks DONE**: LLaVA plan✅ 中文报告✅(updated) ④-4ep✅
+
+Volume: TASK=31.0KB / MEMORY=28.0KB (both ≤32KB ✓, no archiving needed). Commit + push.
